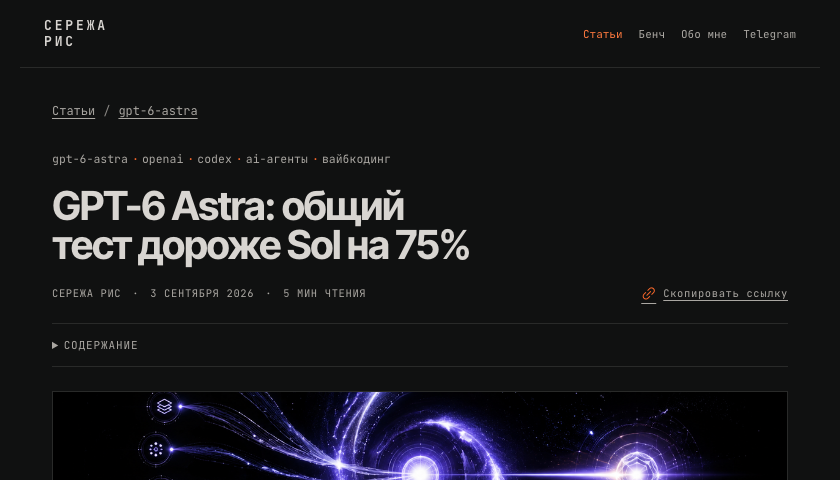
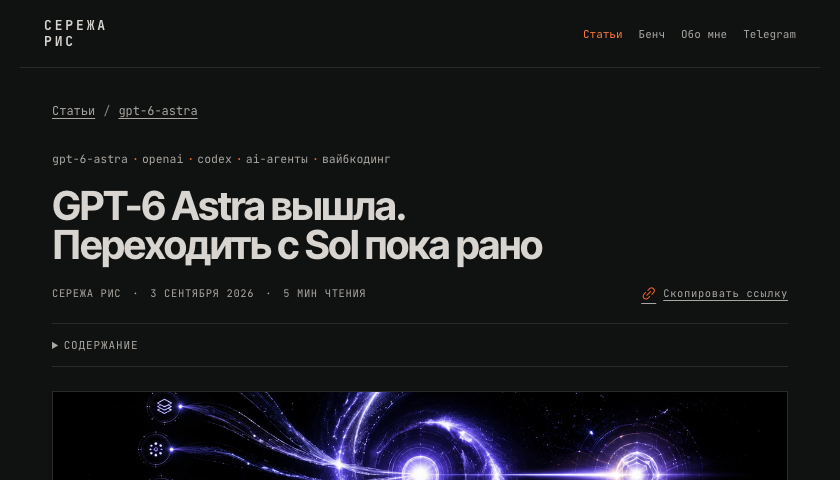
content: clarify GPT-6 Astra headline

Changed region(s): [[0.0619, 0.375, 0.65, 0.5625]]

diff --git a/docs/STATUS.md b/docs/STATUS.md
@@ -252,7 +252,7 @@ curl -s http://127.0.0.1:1313/blog/agent-teams-opus-4-6/ > /dev/null
 | 2026-08-18 | M19 Grok Bot guide publication | `content/blog/grok-bot-cloud-agents-guide.md`, `static/images/blog/grok-bot-cloud-agents-guide-preview.png`, `static/images/blog/grok-bot/*.webp`, `README.md`, `docs/PLAN.md`, `docs/STATUS.md`; issue `#159`; commit `a65d14e` | style and editorial gates; independent fact, persona, and editorial reviews; `hugo build --gc --minify`; rendered-HTML assertions; full SEO helper stack; `git diff --check`; Git-connected `main` push; production HTML, cover, redirect, canonical, sitemap, and 840x480 browser smoke; Telegram queue add | pass: guide live with one H1, seven H2 sections, 24 localized diagrams in the body, self-canonical URL, valid OG cover, and Telegram queue item `e2fbbf7c` for 2026-08-19 08:00 MSK | monitor production and queued announcement |
 | 2026-08-18 | M19 owner-feedback rewrite and exact-title rollout | `content/blog/grok-bot-cloud-agents-guide.md`, `static/images/blog/grok-bot-cloud-agents-guide-preview.png`, `README.md`; issue `#159`; site commit `d95c36e`; corp-media commit `0f46c82` | exact title check; 1365-word style and editorial gates; independent fact and persona reviews; `hugo --gc --minify`; rendered article assertions; JavaScript syntax; full SEO helper stack; Git-connected `main` push; production HTML, cover hash, 308 redirect, canonical, sitemap, 24-figure count, and 840x480 browser smoke | pass: «Гайд по использованию Grok Bot» is live with the expanded standalone guide and corrected cover; existing Telegram queue item `e2fbbf7c` remains scheduled for 2026-08-19 08:00 MSK | monitor production and queued announcement |
 | 2026-08-18 | M19 full-adaptation fidelity correction | `content/blog/grok-bot-cloud-agents-guide.md`; issue `#159`; commit `ccc2259` | source-to-public structural and visual diff; five deaify critics; current xAI and Hermes fact audit; persona gate; reverse outline; editorial judge; style and structural gates; `hugo --gc --minify`; rendered heading and 25-image-order assertions; full SEO helper stack; production HTML, cover hash, redirect, canonical, sitemap, and 840x480 TL;DR smoke | pass: the live article restores the owner-provided TL;DR opening, 16 H2 + 1 H3, all 25 localized schemes in source order, memory, collaboration, Auto Review, Hermes, macOS, practical-start, and final sections | monitor production and queued announcement |
-| 2026-09-03 | M20 GPT-6 Astra release article | `content/blog/gpt-6-astra.md`, `static/images/blog/gpt-6-astra*`, `static/design-review/gpt-6-astra-*`, `layouts/blog/paper.html`, `layouts/_default/baseof.html`, `README.md`, `docs/PLAN.md`, `docs/STATUS.md`; issue `#171` | Grok CLI X research; five deaify critics; fact, persona, and editorial gates; style and structural gates; `hugo --gc --minify`; rendered metadata and media assertions; full SEO helper stack; deterministic 1200 px overlap check; Playwright browser review at 840×480 | pass locally: article contains 12 attributed source images, official OpenAI video, a responsive local Astra game video, direct Day One verdict, FAQ schema, trailing-slash canonical, and corrected media/tag layout rules | review PR and its updated 840×480 frames before publication |
+| 2026-09-03 | M20 GPT-6 Astra release article | `content/blog/gpt-6-astra.md`, `static/images/blog/gpt-6-astra*`, `static/design-review/gpt-6-astra-*`, `layouts/blog/paper.html`, `layouts/_default/baseof.html`, `README.md`, `docs/PLAN.md`, `docs/STATUS.md`; issue `#171` | Grok CLI X research; five deaify critics; fact, persona, and editorial gates; style and structural gates; `hugo --gc --minify`; rendered metadata and media assertions; full SEO helper stack; deterministic 1200 px overlap check; Playwright browser review at 840×480 | pass locally: article contains 12 attributed source images, official OpenAI video, a responsive local Astra game video, direct Day One verdict, FAQ schema, trailing-slash canonical, and corrected media/tag layout rules | publication and post-deploy evidence are tracked in issue `#171` and PR `#172` |
 
 ## Blocker log
 

diff --git a/README.md b/README.md
@@ -36,7 +36,7 @@
 
 | Дата | Статья |
 |------|--------|
-| 2026-09-03 | [GPT-6 Astra: общий тест дороже Sol на 75%](https://sereja.tech/blog/gpt-6-astra/) |
+| 2026-09-03 | [GPT-6 Astra вышла. Переходить с Sol пока рано](https://sereja.tech/blog/gpt-6-astra/) |
 | 2026-08-22 | [Повторил забег агентов: 11/18 стало 17/18](https://sereja.tech/blog/ox-alpha-yesterday-vs-today/) |
 | 2026-08-22 | [ox-alpha: 6 агентов, 3 бенча](https://sereja.tech/blog/ox-alpha-harness-pool/) |
 | 2026-08-18 | [Гайд по использованию Grok Bot](https://sereja.tech/blog/grok-bot-cloud-agents-guide/) |

diff --git a/content/blog/gpt-6-astra.md b/content/blog/gpt-6-astra.md
@@ -1,5 +1,5 @@
 ---
-title: "GPT-6 Astra: общий тест дороже Sol на 75%"
+title: "GPT-6 Astra вышла. Переходить с Sol пока рано"
 slug: "gpt-6-astra"
 date: 2026-09-03
 lastmod: 2026-09-03
